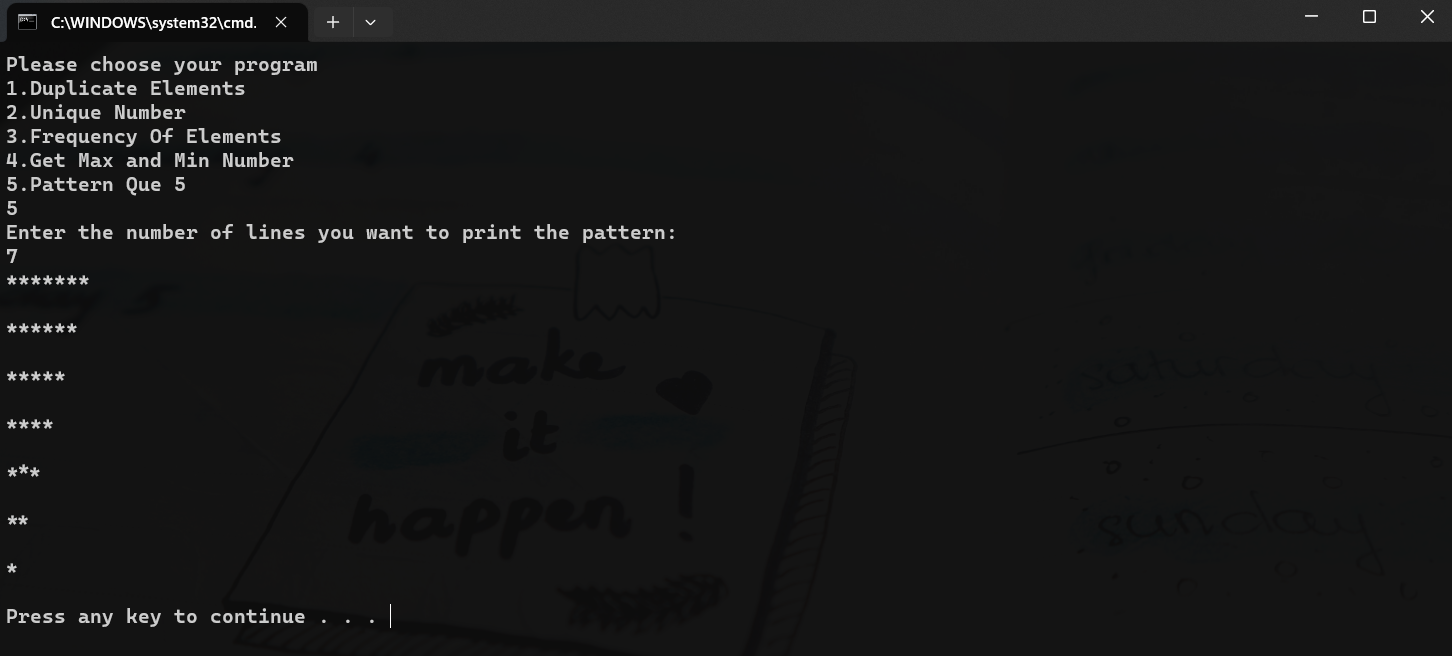
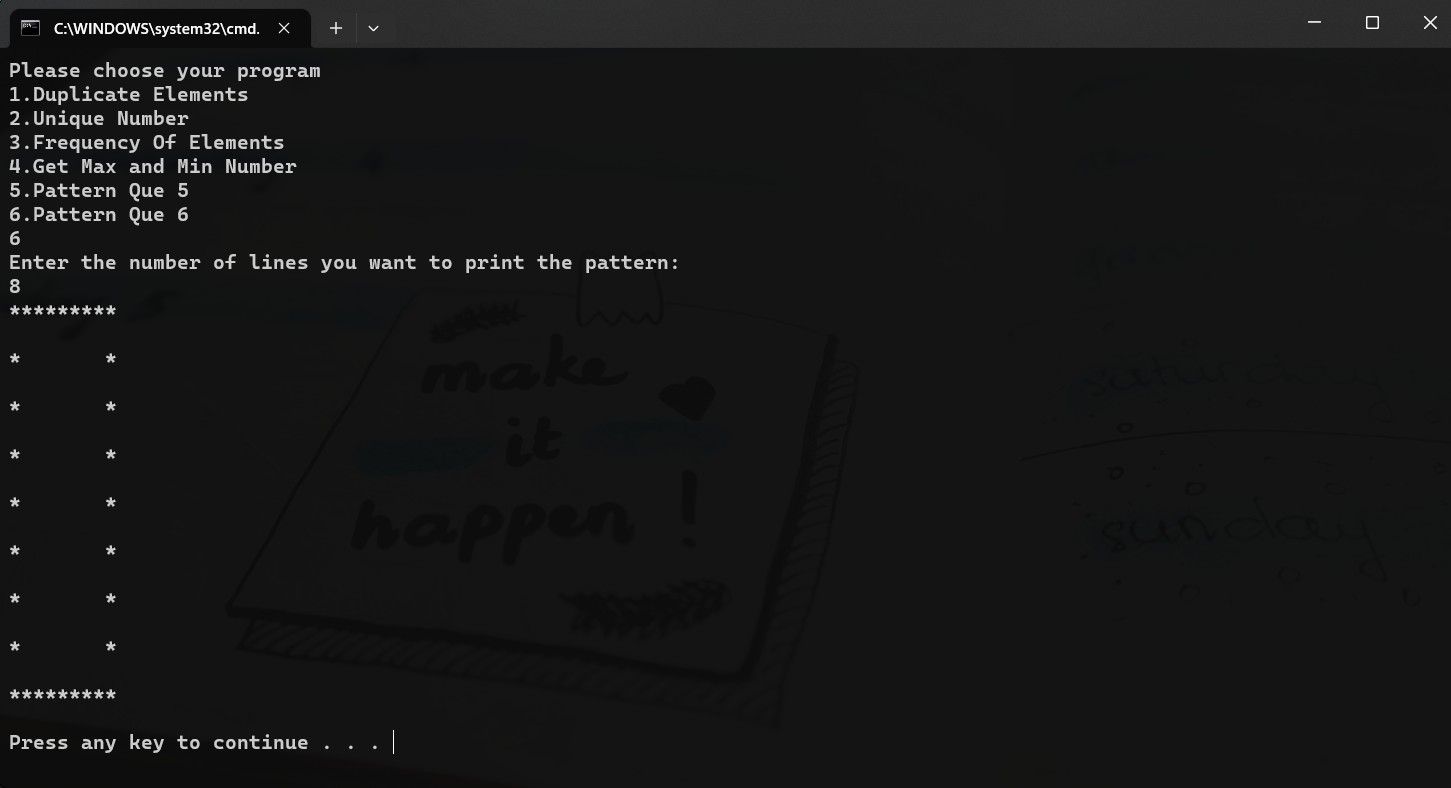
[Pankaj] To get the desired pattern in que 6 of day 11

diff --git a/Day11Problems/Pattern_Que6.cs b/Day11Problems/Pattern_Que6.cs
@@ -1,0 +1,35 @@
+using System;
+using System.Collections.Generic;
+using System.Linq;
+using System.Text;
+using System.Threading.Tasks;
+
+namespace Day11Problems
+{
+    class Pattern_Que6
+    {
+        public static void GetPattern()
+        {
+            int i, j;
+            Console.WriteLine("Enter the number of lines you want to print the pattern: ");
+            int n = Convert.ToInt32(Console.ReadLine());
+
+            // Printing the pattern
+            for (j = 0; j <= n; j++)
+            {
+                for (i = 0; i <= n; i++)
+                {
+                    if (j == 0)
+                        Console.Write(("*"));
+                    else if (i == 0 || i == n)
+                        Console.Write(("*"));
+                    else if (j == n)
+                        Console.Write(("*"));
+                    else
+                        Console.Write((" "));
+                }
+                Console.WriteLine(("\n"));
+            }
+        }
+    }
+}

diff --git a/Day11Problems/Program.cs b/Day11Problems/Program.cs
@@ -12,7 +12,7 @@ namespace Day11Problems
         {
             //getting input from user to execute specific code
             Console.WriteLine("Please choose your program");
-            Console.WriteLine("1.Duplicate Elements \n2.Unique Number \n3.Frequency Of Elements \n4.Get Max and Min Number \n5.Pattern Que 5 ");
+            Console.WriteLine("1.Duplicate Elements \n2.Unique Number \n3.Frequency Of Elements \n4.Get Max and Min Number \n5.Pattern Que 5 \n6.Pattern Que 6  ");
             int option = int.Parse(Console.ReadLine());
 
             switch (option)
@@ -31,6 +31,9 @@ namespace Day11Problems
                     break;
                 case 5:
                     Pattern_Que5.GetPatternQue5();
+                    break;
+                case 6:
+                    Pattern_Que6.GetPattern();
                     break;
                 default:
                     Console.WriteLine("Please try again and choose from given options only.");
